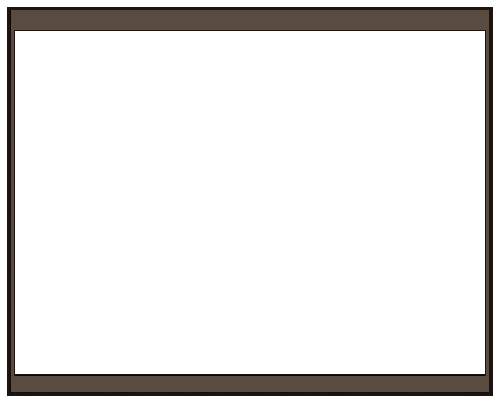
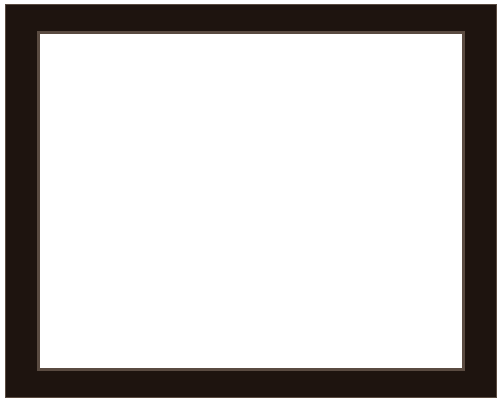
up

Changed region(s): [[0.0, 0.0, 1.0, 1.0]]

diff --git a/ground.js b/ground.js
@@ -149,7 +149,7 @@
      .border-window {color: #f5f5f5;}
      .border-window .content {background: #1e140f;}
 
-     .border-window, .interface-element-border-window-frame {border-image: url(https://raw.githubusercontent.com/t1907/margonemNI/refs/heads/main/ground/window-frame2.png) 32 20 fill repeat;}
+     .border-window, .interface-element-border-window-frame {border-image: url(https://raw.githubusercontent.com/t1907/margonemNI/refs/heads/main/ground/window-frame.png) 32 20 fill repeat;}
 
      .border-window .header-label-positioner .header-label .left-decor, .border-window .header-label-positioner .header-label .right-decor {background: 0 0;}
 
